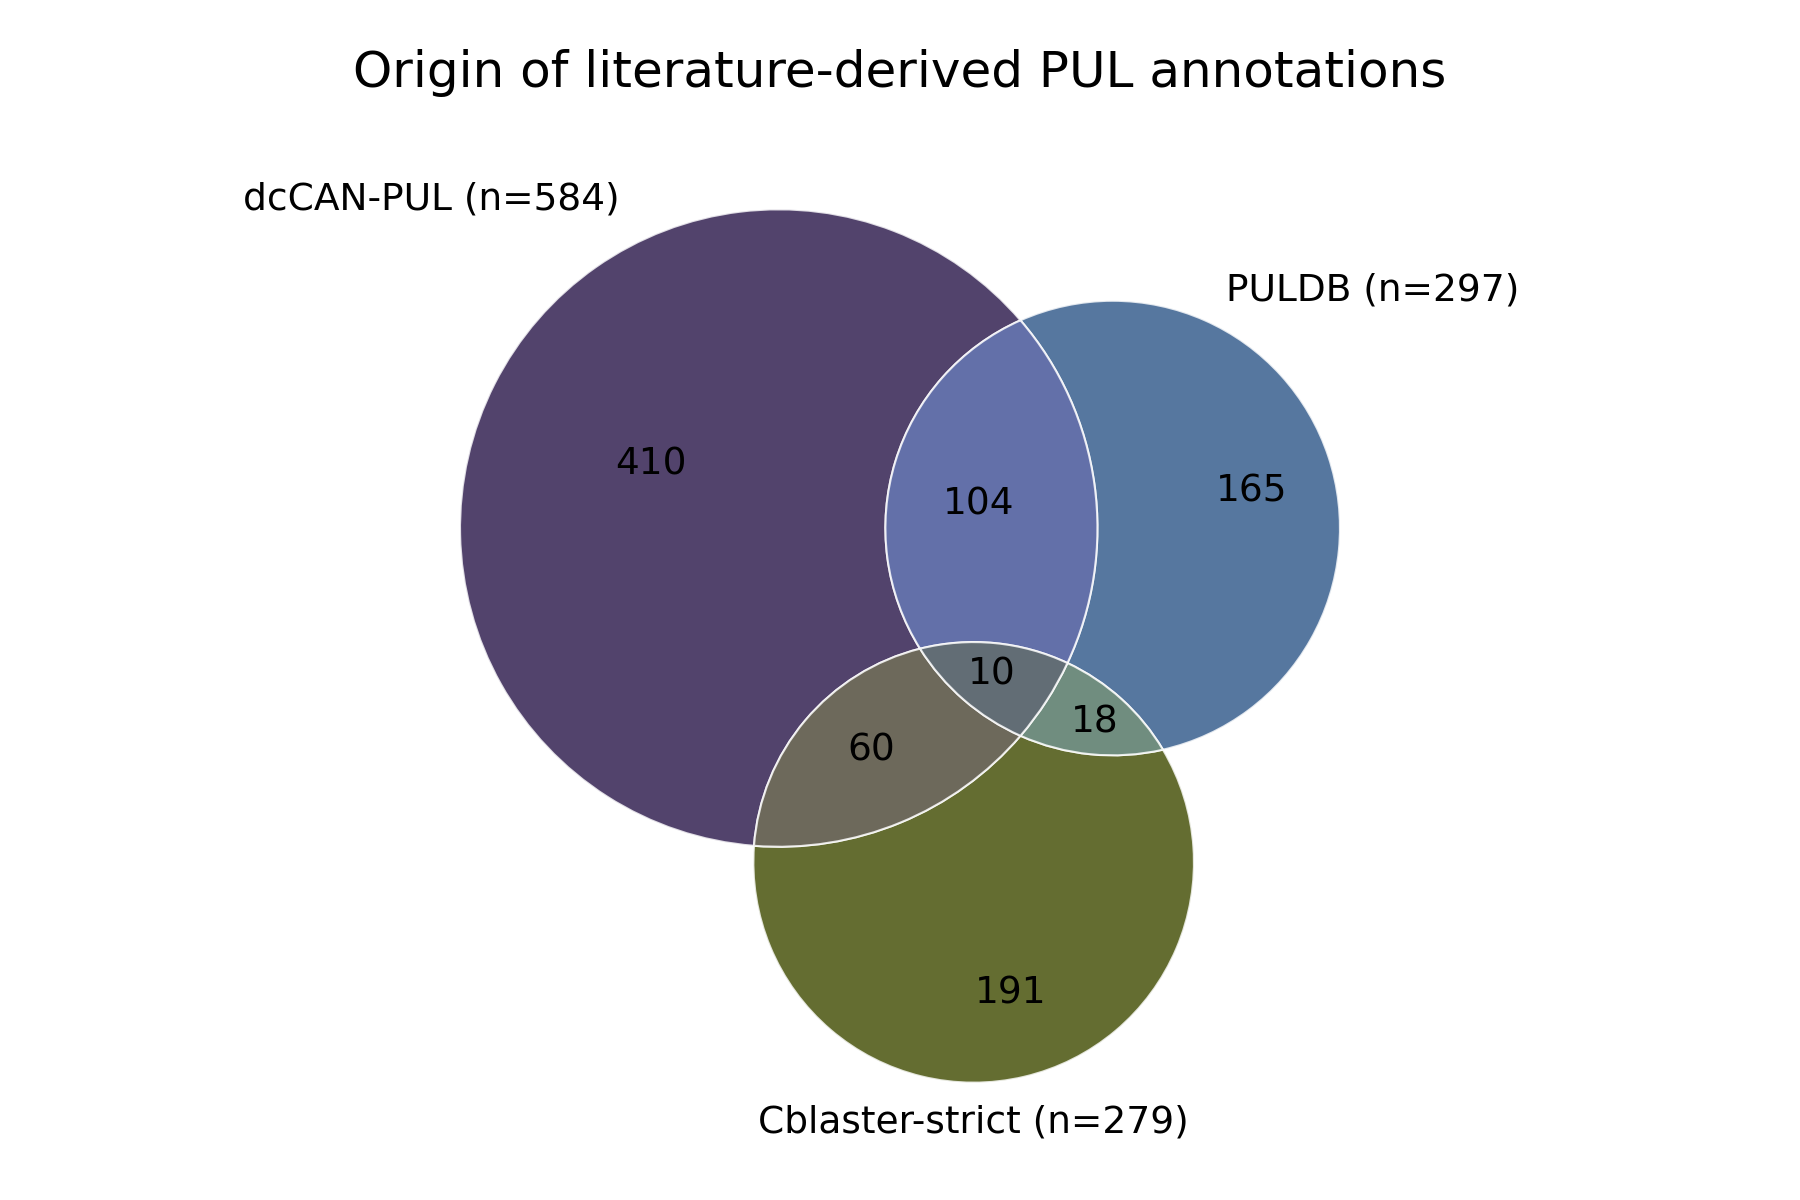
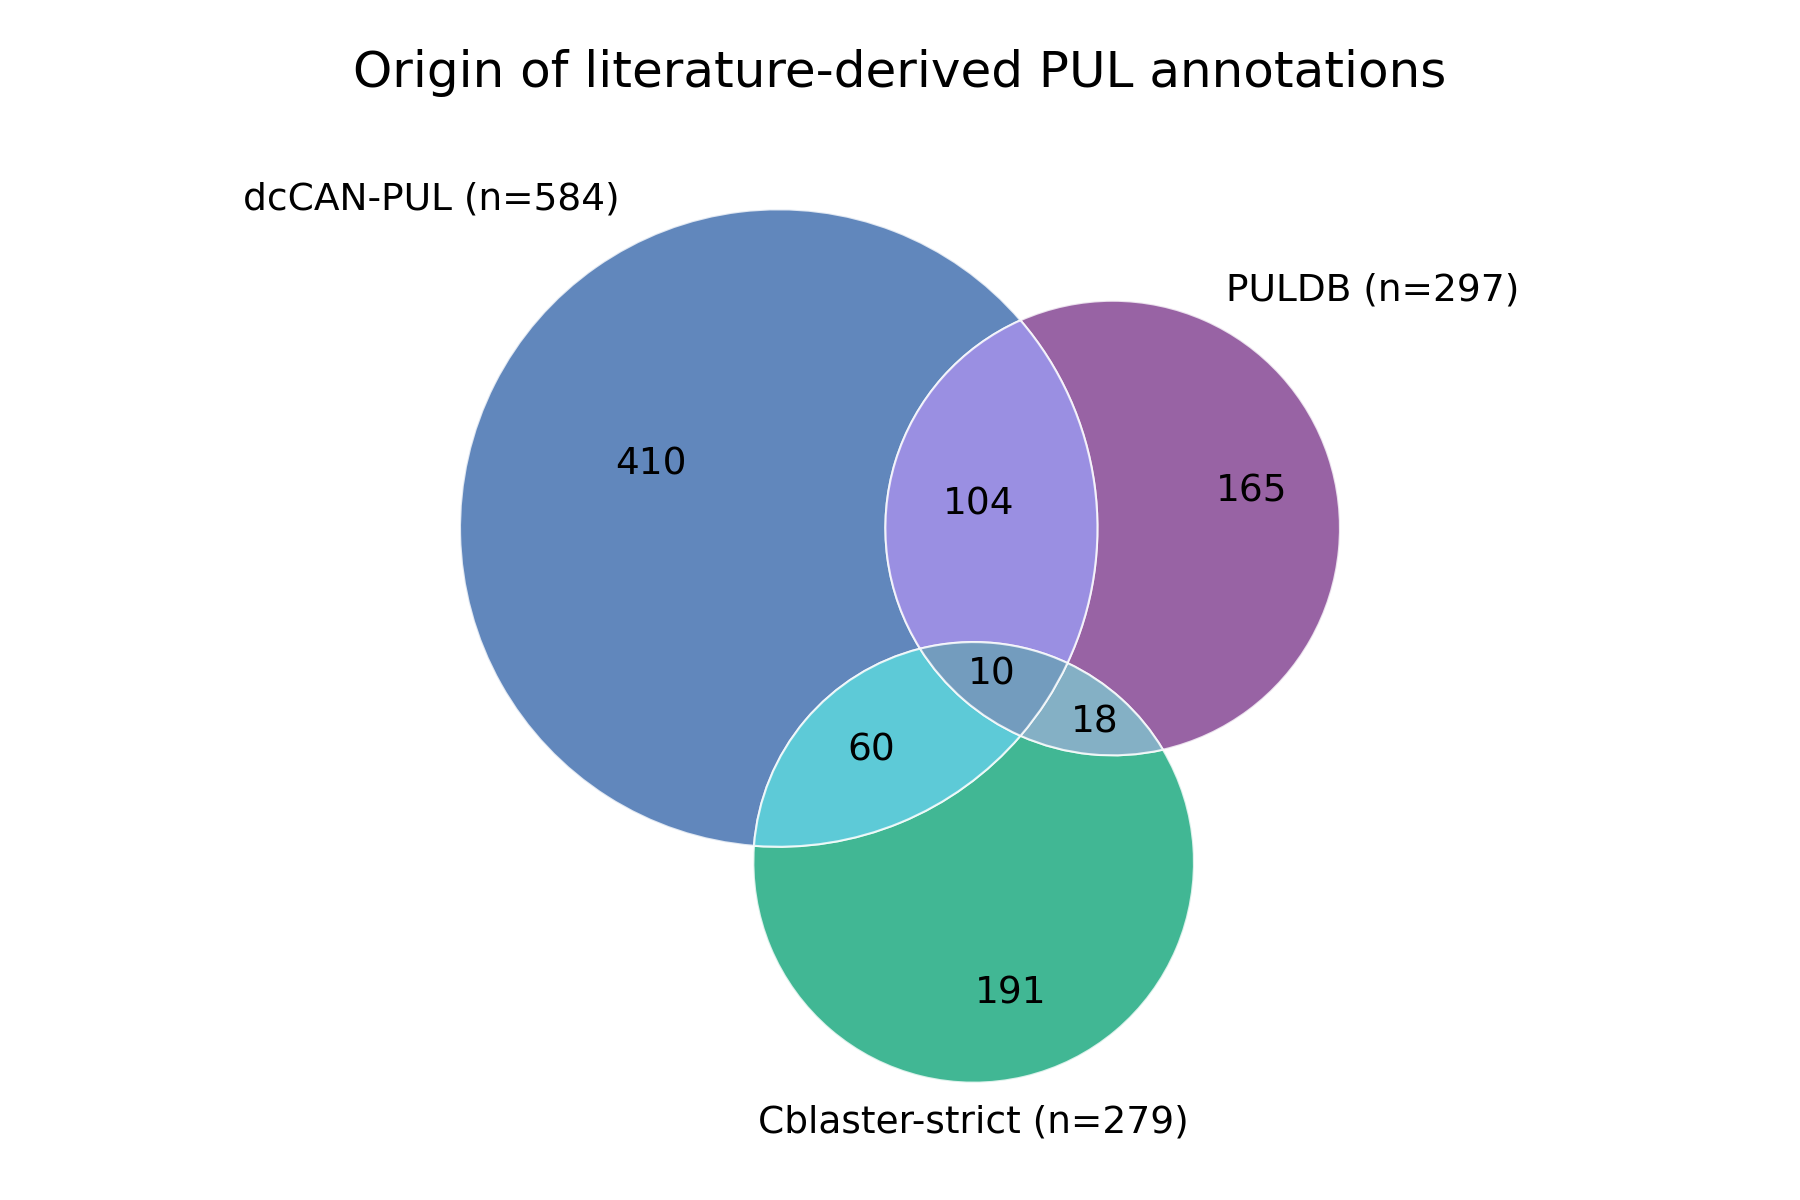
modify plots

Changed region(s): [[0.2489, 0.1542, 0.7467, 0.925]]

diff --git a/src/scripts/visualization/evaluate_predictions.py b/src/scripts/visualization/evaluate_predictions.py
@@ -64,10 +64,10 @@ def generate_upset_plot(all_models, model_class):
 def barplot_features(all_models, model_names_dict=model_names_features):
     # list of evaluators for all models
     evaluators = get_evaluators(all_models)
-    fig_bar, ax_bar = plt.subplots(1, 1, figsize=(4.5, 5))
+    fig_bar, ax_bar = plt.subplots(1, 1, figsize=(6, 4))
     ax_bar.set_xlabel("Model")
-    ax_bar.set_ylabel("AUPRC (Area Under Pecision-Recall Curve)")
-    ax_bar.set_title("AUPRC per model")
+    ax_bar.set_ylabel("AUPRC")
+    ax_bar.set_title("AUPRC per model on literature-derived PULs")
     auprc_exp = []
 
     for i, model_evaluator in enumerate(evaluators):
@@ -86,16 +86,16 @@ def barplot_features(all_models, model_names_dict=model_names_features):
     for i in range(len(features)):
         scores = auprc_exp[i::2]  # get scores for current feature set
         x = np.arange(len(models))
-        bars = ax_bar.bar(x + (i-0.5)*0.3, scores, width=0.28, label=features[i], color=colors[i], edgecolor="black", alpha=0.9)
+        bars = ax_bar.bar(x + (i-0.5)*0.3, scores, width=0.28, label=features[i], color=colors[i], edgecolor="black", alpha=0.8)
         ax_bar.bar_label(bars, fmt="%.2f", padding=3, fontsize=8)
 
     ax_bar.set_xticks(x)
-    ax_bar.set_xticklabels(models, rotation=45, ha="right")
+    ax_bar.set_xticklabels(models)
     ax_bar.set_ylim(0, 0.8)
     ax_bar.legend(loc="upper left")
 
     fig_bar.tight_layout()
-    fig_bar.savefig("results/plots/aggregated/barplot_features.png")
+    fig_bar.savefig("results/plots/aggregated/barplot_features.png", dpi=300)
 
 
 def barplot_masked(all_models, model_names_dict=model_names_features):
@@ -167,7 +167,7 @@ def barplot_masked(all_models, model_names_dict=model_names_features):
     fig_bar.savefig("results/plots/aggregated/barplot_masked.png")
 
 
-def barplot_pul_length(all_models, model_names_dict=model_names):
+def barplot_pul_length(all_models, model_names_dict=model_names_selected):
     pul_length_distributions = {}
     # get gene count distributions for all models from predicted clusters
     for model_name in all_models:
@@ -182,7 +182,7 @@ def barplot_pul_length(all_models, model_names_dict=model_names):
     )["pul_length"].to_list()
 
     # plot distributions as barplot
-    fig, ax = plt.subplots(figsize=(8, 6))
+    fig, ax = plt.subplots(figsize=(6, 4))
     # get bins and labels for barplot
     bins, labels = get_bins(10, start=0, stop=15)
     n_models = len(all_models)
@@ -207,6 +207,9 @@ def barplot_pul_length(all_models, model_names_dict=model_names):
         # center grouped bars: compute offset so bars for each model are centered around each xtick
         offset = (idx - (n_models - 1) / 2) * width
         ax.bar(x + offset, y, edgecolor="black", width=width, align="center", label=model_names_dict.get(model_name), color=model_colors_selected.get(model_name))
+
+    ax.set_axisbelow(True)
+    ax.grid(axis="y", linestyle="--", alpha=0.7)
 
     ax.set_xticks(x)
     labels[0] = "1"
@@ -375,8 +378,8 @@ def main(args):
 
     if model_name == "selected":
         all_models = ["gecco_pfam", "genecat_zeroshot_cazy_masked", "genecat_finetuned_cazy_masked", "genecat_untrained", "esmc_masked", "bacformer_masked"]
-        #barplot_pul_length(all_models)
-        compare_all_models(all_models, model_name, model_names_selected)
+        barplot_pul_length(all_models)
+        #compare_all_models(all_models, model_name, model_names_selected)
         return
 
     if model_name == "upset":

diff --git a/src/scripts/visualization/cryptic_puls_plots.py b/src/scripts/visualization/cryptic_puls_plots.py
@@ -54,7 +54,7 @@ def plot_venn_diagram_cblaster(save="results/plots/venn_cblaster.png"):
 
 
 def plot_length_distributions(genes, experimental_puls, cblaster_results_liberal, cblaster_results_strict, pulpy):
-    fig, ax = plt.subplots(figsize=(7, 5.5))
+    fig, ax = plt.subplots(figsize=(6, 4))
     bins, labels = get_bins(10, start=0, stop=100)
     experimental = get_pul_lengths(experimental_puls, genes)
     cblaster_liberal_puls = get_pul_lengths(cblaster_results_liberal, genes)
@@ -100,6 +100,8 @@ def plot_length_distributions(genes, experimental_puls, cblaster_results_liberal
 
     ax.set_xticks(x)
     labels[0] = "1"
+    ax.set_axisbelow(True)
+    ax.grid(axis="y", linestyle="--", alpha=0.7)
     ax.set_xticklabels(labels, rotation=45, ha="right")
     ax.margins(x=0.02)
     ax.set_xlabel("PUL length in genes")
@@ -196,15 +198,23 @@ def plot_pul_overlap(all_puls, pulpy, cblaster_results_liberal):
     cblaster_liberal_puls = set(merged_puls.filter(polars.col("has_cblaster") == True).select("cluster_id_unique").to_series().to_list())
     experimental_puls = set(merged_puls.filter(polars.col("has_experimental") == True).select("cluster_id_unique").to_series().to_list())
 
-    fig, ax1 = plt.subplots(figsize=(7, 4))
-    venn3(
+    fig, ax1 = plt.subplots(figsize=(6, 4))
+    v = venn3(
         [pulpy_puls, cblaster_liberal_puls, experimental_puls],
-        set_labels=(f'PULpy (total: {len(pulpy_puls)})', f'Liberal Cblaster (total: {len(cblaster_liberal_puls)})', f'Experimental + Strict Cblaster (total: {len(experimental_puls)})'),
+        set_labels=(f'PULpy (n={len(pulpy_puls)})', f'Liberal Cblaster (n={len(cblaster_liberal_puls)})', f'Experimental + Strict Cblaster (n={len(experimental_puls)})'),
         ax=ax1,
         set_colors=(Cork_7[0], Cork_7[2], Cork_7[-1]),
         alpha=0.8
     )
-#    ax1.set_title("PULs identified by PULpy, Liberal Cblaster and Experimental annotations")
+    for patch in v.patches:
+        patch.set_edgecolor("white")
+        patch.set_linewidth(0.5)
+
+    for t in v.set_labels + v.subset_labels:
+        if t:
+            t.set_fontsize(9)
+            
+    ax1.set_title("Overlap of Experimental and Cryptic PULs")
     plt.tight_layout()
     plt.savefig("results/plots/cryptic_pul_overlap_venn.png", dpi=300)
     plt.close()

diff --git a/src/scripts/visualization/features_exploration.py b/src/scripts/visualization/features_exploration.py
@@ -46,14 +46,14 @@ suscd = susc+susd
 cazy_features_selected = features_cazy["domain"].unique()
 
 def plot_features_venn():
-    fig, ax = plt.subplots(figsize=(5, 5))
+    fig, ax = plt.subplots(figsize=(6, 4))
     # plot overlap
     v = venn2(
         [genes_pfam, genes_cazy], 
         set_labels=(f'Pfam\n(n={len(genes_pfam)})', f'CAZy\n(n={len(genes_cazy)})'),
         set_colors=(Cork_7[0], Cork_7[1]),
         ax=ax,
-        alpha=0.9
+        alpha=0.8
     )
     for patch in v.patches:
         patch.set_edgecolor("white")
@@ -63,13 +63,13 @@ def plot_features_venn():
         if t:
             t.set_fontsize(10)
             if t.get_text() == "1304":
-                t.set_position((t.get_position()[0]+0.065, t.get_position()[1]))
+                t.set_position((t.get_position()[0]+0.07, t.get_position()[1]))
             if "CAZy" in t.get_text():
                 t.set_position((t.get_position()[0]+0.1, t.get_position()[1]))
 
-    ax.set_title("Overlap in proteins with Pfam and/or CAZy annotations", fontsize=12, pad=2)
+    ax.set_title("Overlap in genes with Pfam and/or CAZy domains", fontsize=12, pad=2)
     fig.tight_layout()
-    fig.savefig("results/plots/feature_venn.png")
+    fig.savefig("results/plots/feature_venn.png", dpi=300)
 
 
 def get_feature_counts(labeled_results, genes, features, selected_features, groups="cluster_id"):
@@ -297,9 +297,9 @@ def plot_gecco_weights(normalize=False):
 
 
 if __name__ == "__main__":
-    # plot_features_venn()
+    plot_features_venn()
     # plot_functional_composition()
-    plot_gecco_weights()
-    plot_gecco_weights(normalize=True)
+    #plot_gecco_weights()
+    #plot_gecco_weights(normalize=True)
 
     #get_unique_cazy_domains()

diff --git a/src/scripts/visualization/dataset_construction.py b/src/scripts/visualization/dataset_construction.py
@@ -106,14 +106,15 @@ def plot_pul_gene_count(ax, genes, labeled_table):
     y = [counts_dict.get(label, 0) for label in labels]
     x = np.arange(len(labels))
 
+    ax.set_axisbelow(True)
     ax.grid(axis="y", linestyle="--", alpha=0.7)
-    ax.bar(x, y, edgecolor=Cork_7[2], width=1.0, align="center", color=Cork_7[0])
+    ax.bar(x, y, edgecolor="black", width=1.0, align="center", color="#739CBE")
     ax.set_xticks(x)
     labels[0] = "1"
     ax.set_xticklabels(labels, rotation=45, ha="right")
     ax.margins(x=0.02)
     ax.set_xlabel("PUL length in genes")
-    ax.set_ylabel("Count")
+    ax.set_ylabel("Number of PULs")
 
 
 # DATABASE VENN DIAGRAM #
@@ -133,8 +134,8 @@ def plot_venn_diagram_database(ax, experimental_puls):
         [dbcan_sequences, puldb_sequences, cblaster_sequences], 
         set_labels=(f'dcCAN-PUL (n={len(dbcan_sequences)})', f'PULDB (n={len(puldb_sequences)})', f'Cblaster-strict (n={len(cblaster_sequences)})'), 
         ax=ax,
-        set_colors=(Cork_7[0], Cork_7[1], Cork_7[-1]),
-        alpha=0.82
+        set_colors=(Bold_10[2], Bold_10[0], Bold_10[1]),
+        alpha=0.8
     )
     for patch in v.patches:
         patch.set_edgecolor("white")
@@ -179,7 +180,7 @@ def main():
 
     titles = {
         ax1: "Origin of literature-derived PUL annotations",
-        ax3: "PUL length distribution",
+        ax3: "Length distribution of literature-derived PULs",
         ax_tax: "Phylum-level distributions of literature-derived PULs",
         ax_tax_2: "Class-level distributions of literature-derived PULs"
     }
